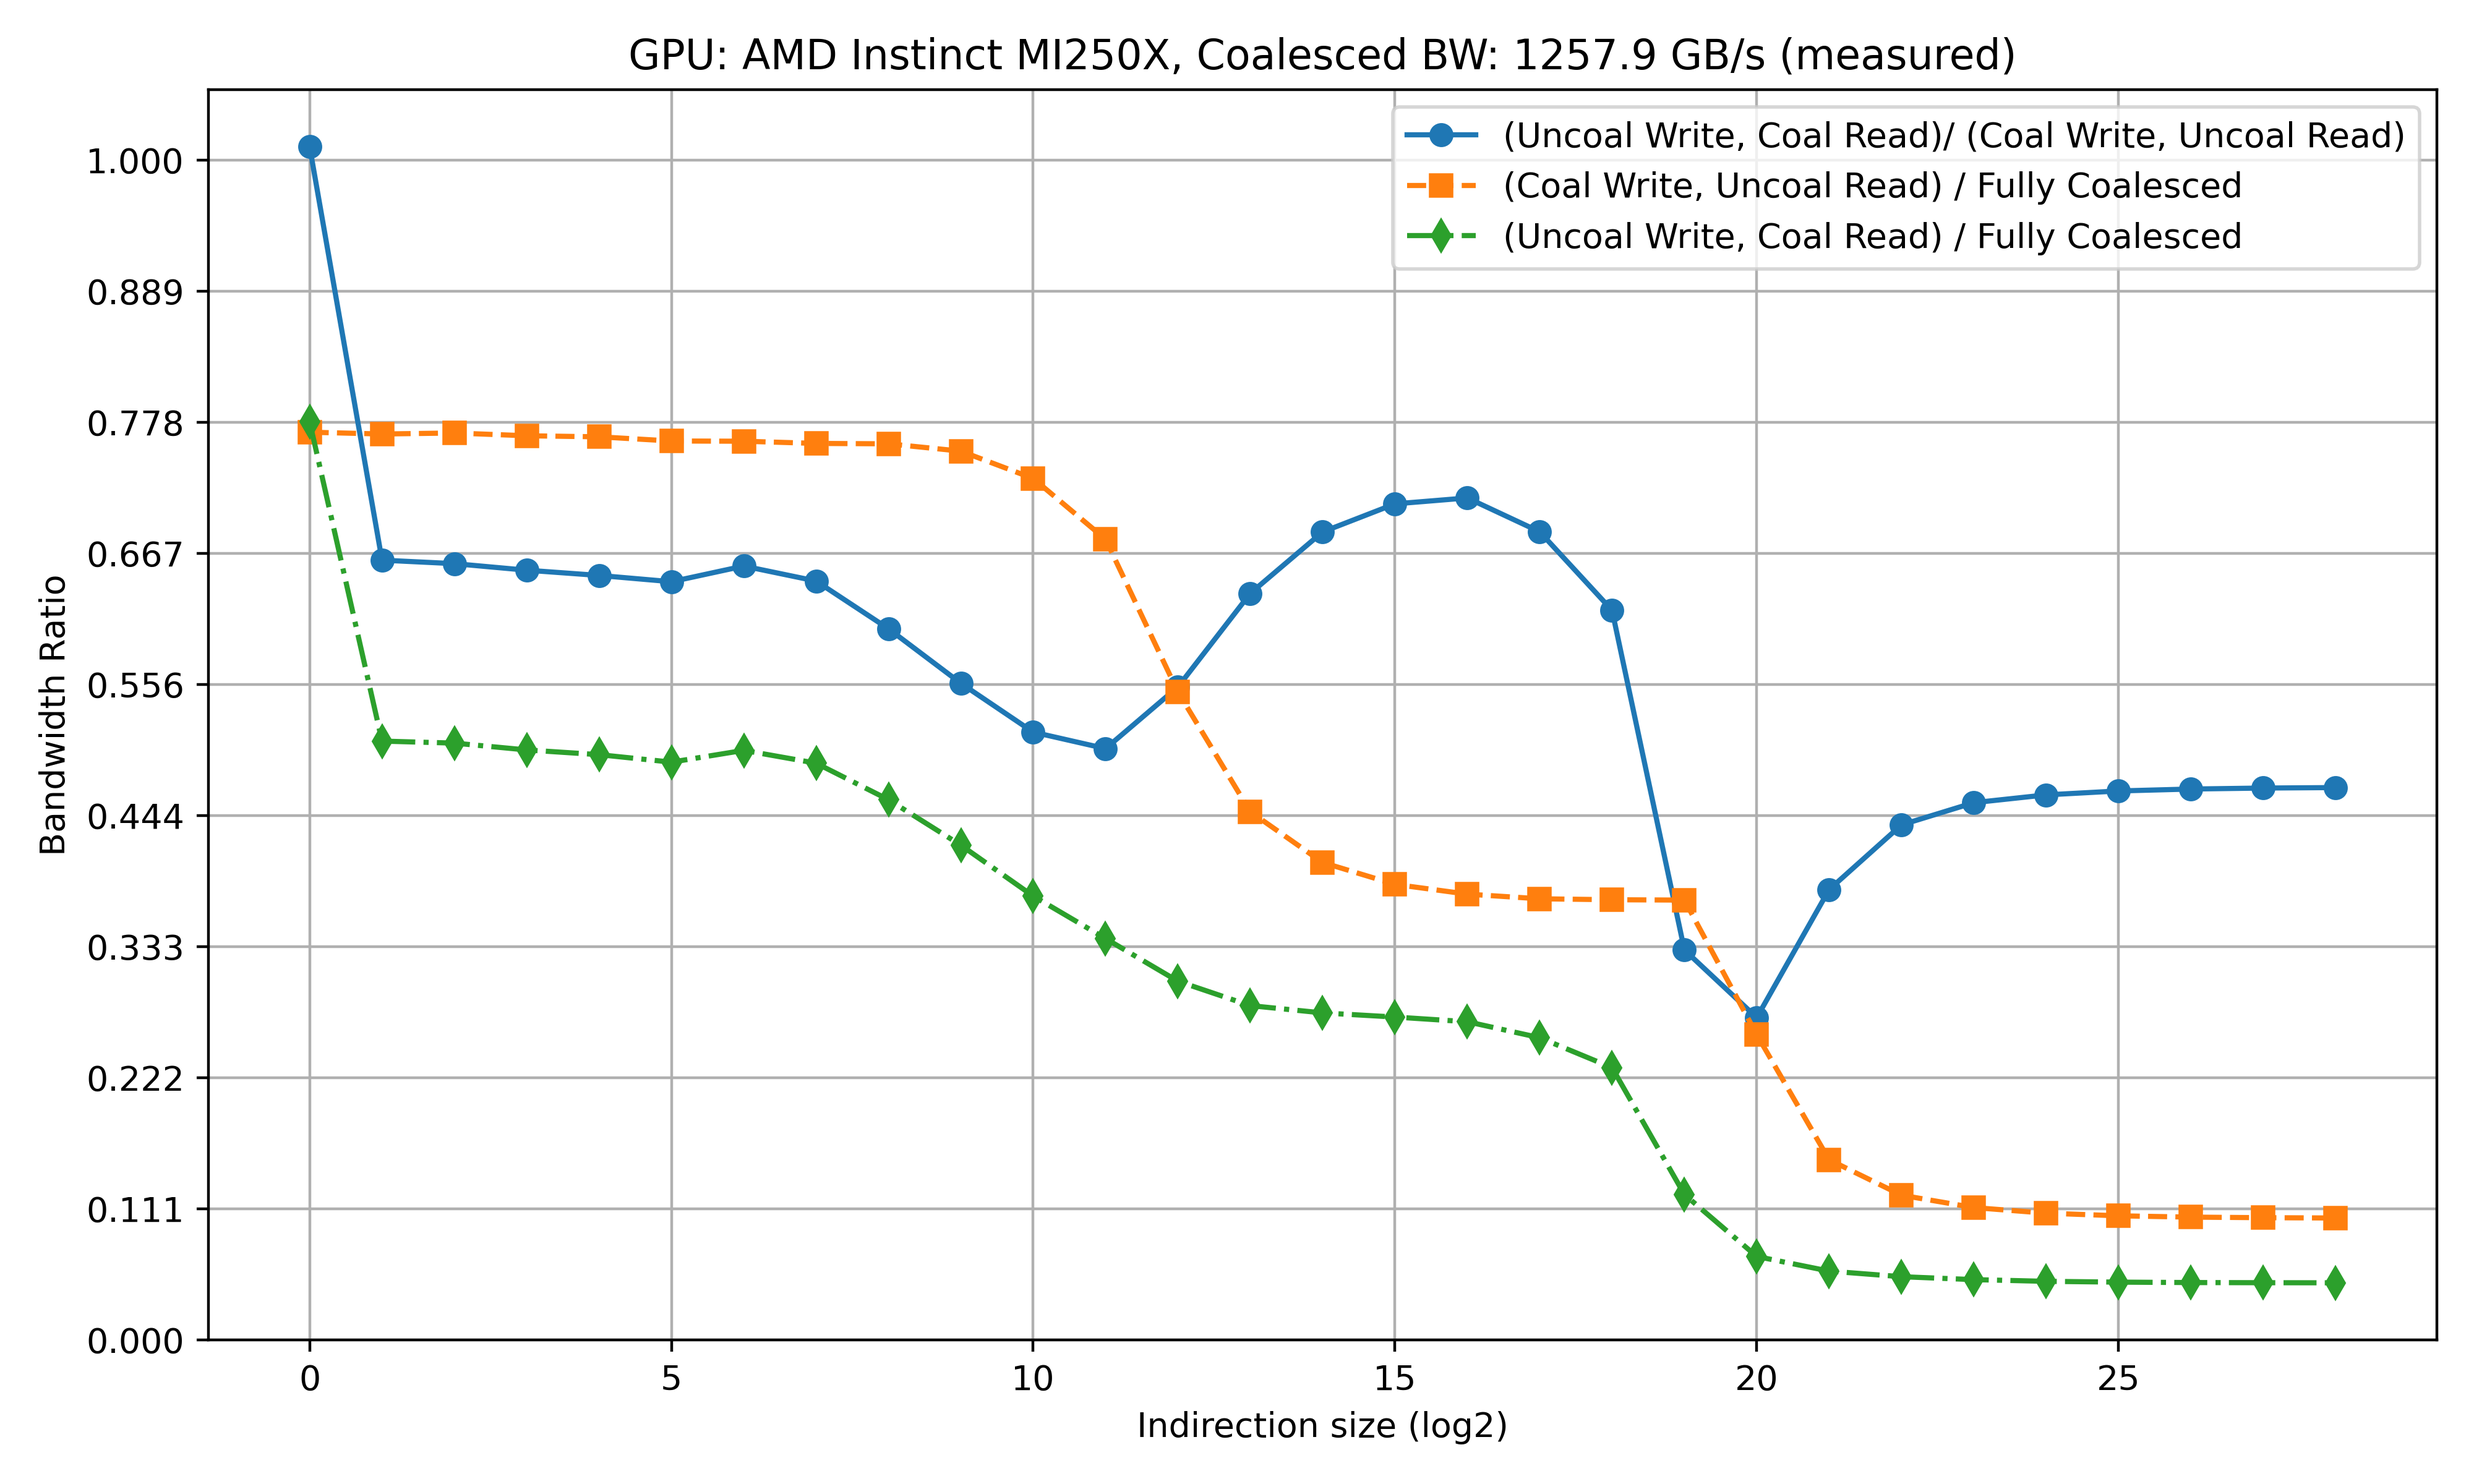
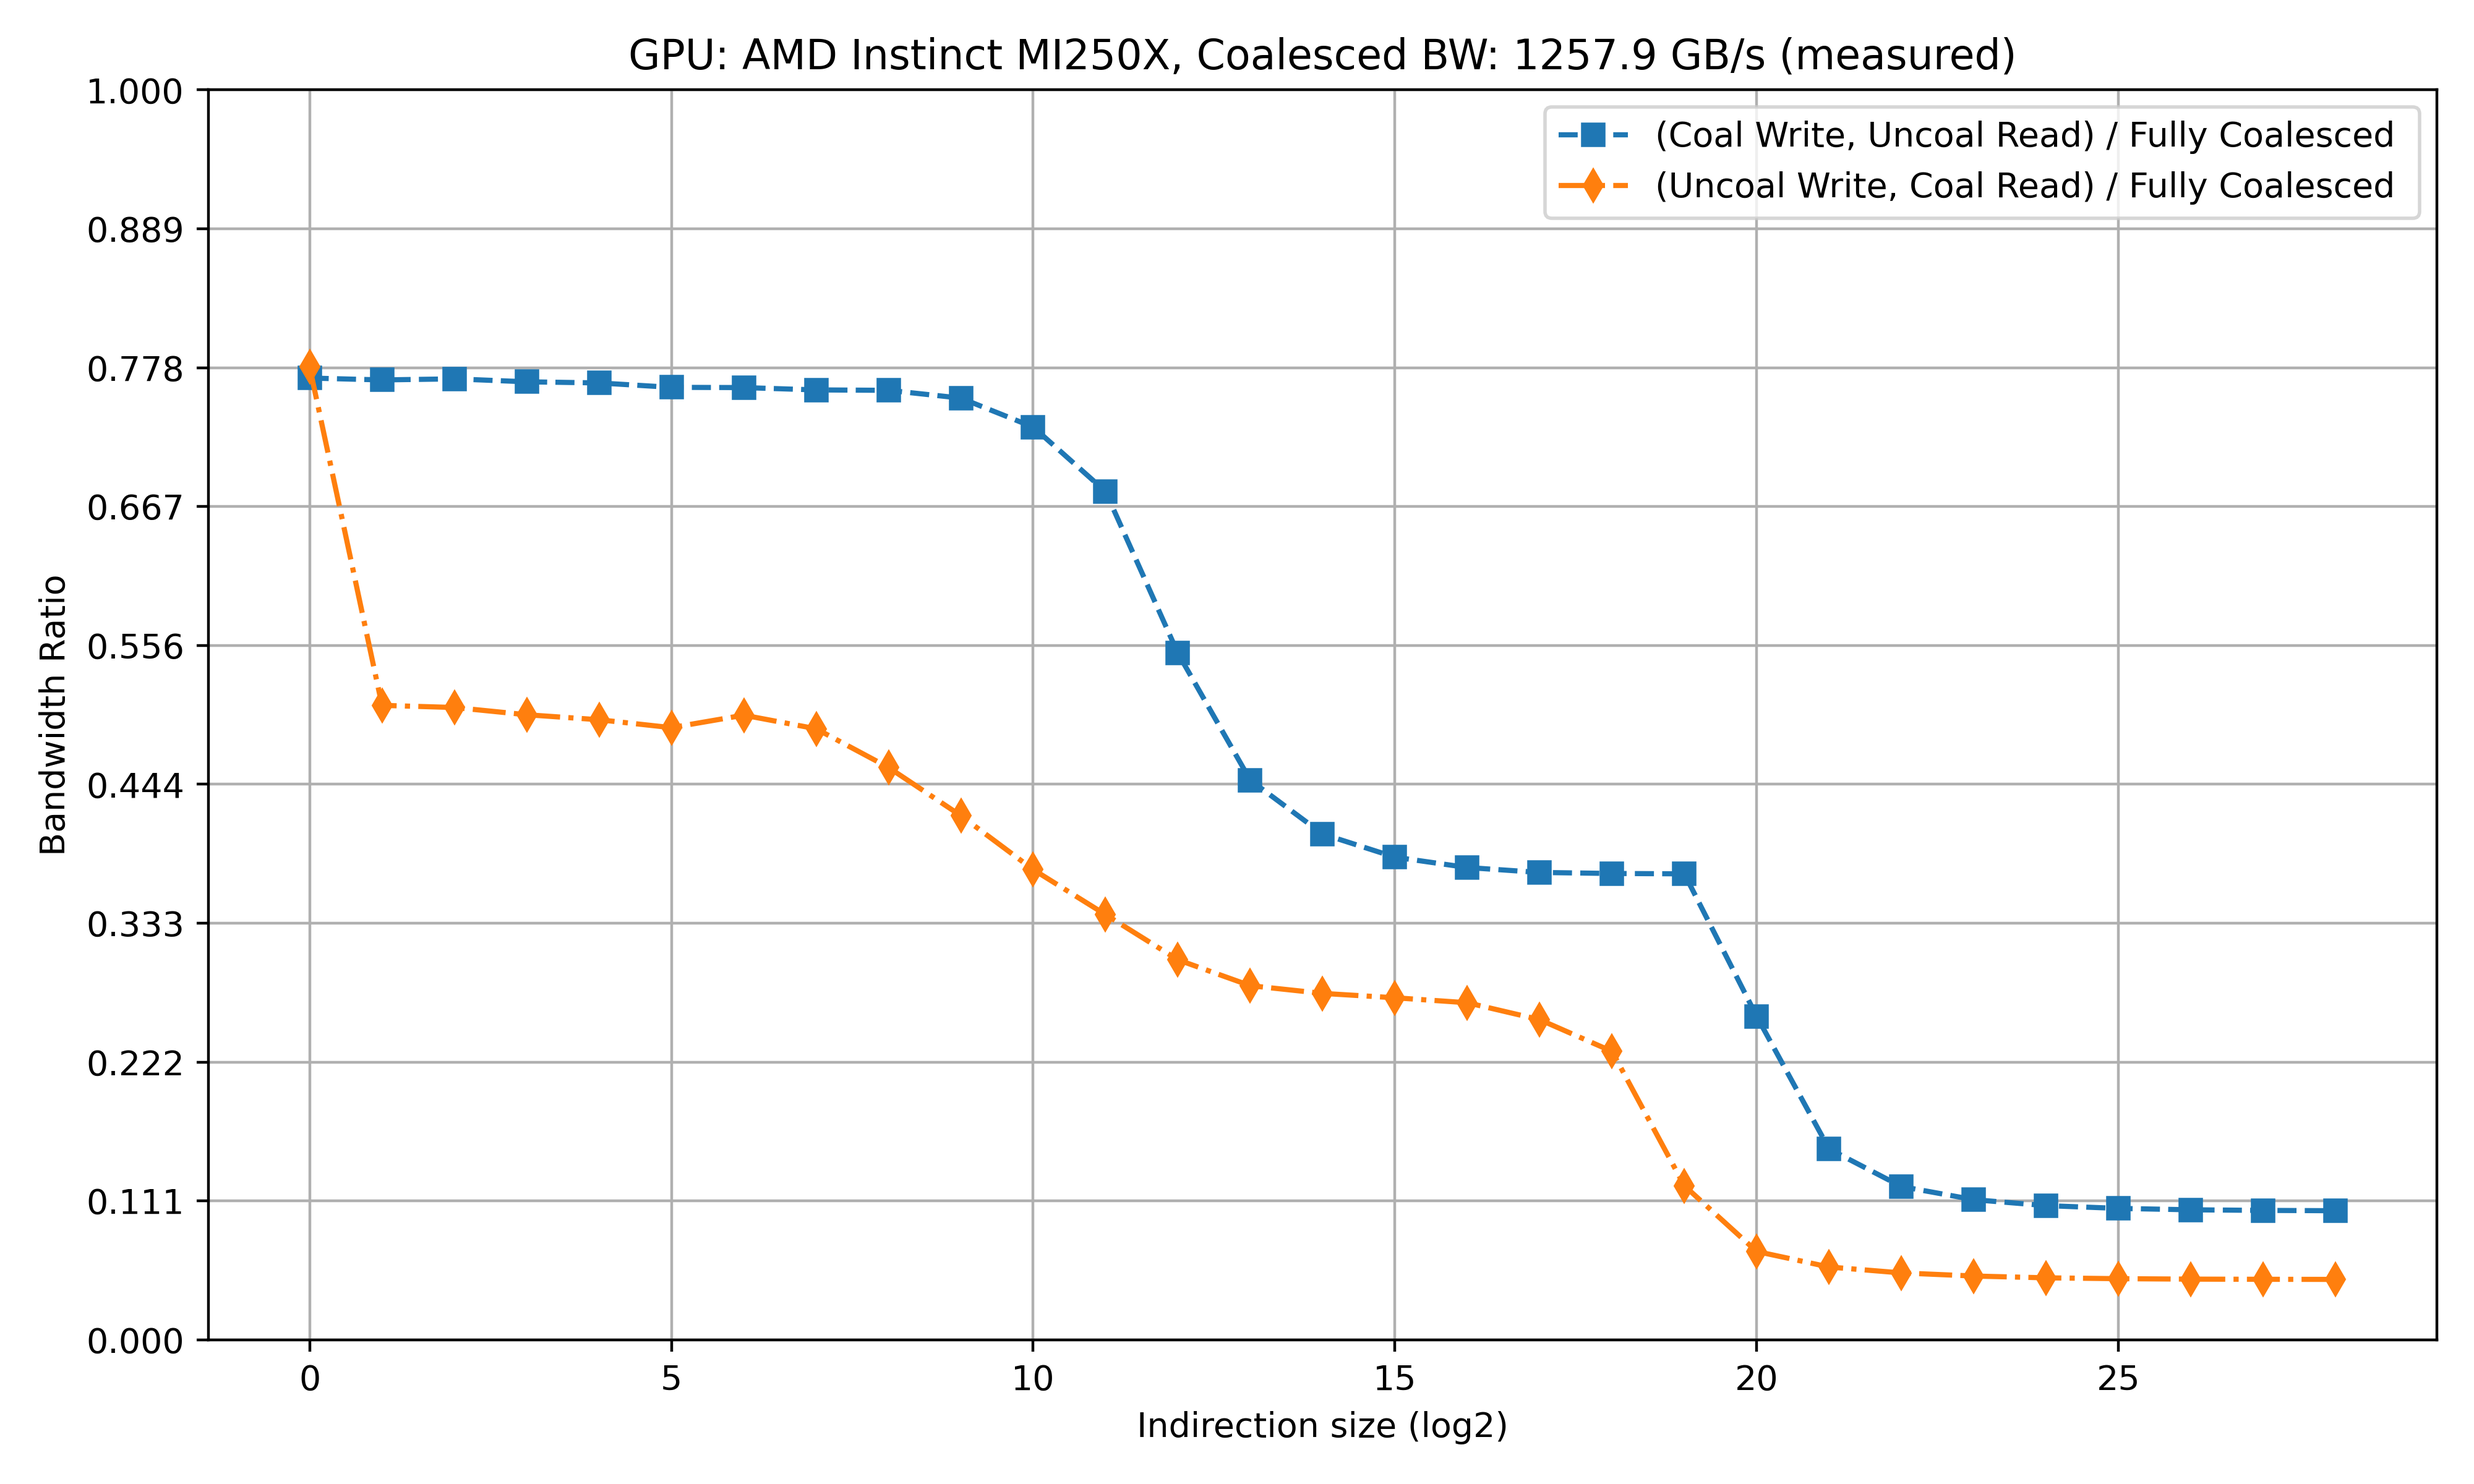
change plotter

diff --git a/plot.py b/plot.py
@@ -50,7 +50,7 @@ coalesced_bw_label = f", Coalesced BW: {avg_coalesced_bw:.1f} GB/s (measured)"
 
 # === Plotting ===
 plt.figure(figsize=(10, 6))
-plt.plot(indirection, read_write_ratio, 'o-', label='(Uncoal Write, Coal Read)/ (Coal Write, Uncoal Read)')
+#plt.plot(indirection, read_write_ratio, 'o-', label='(Uncoal Write, Coal Read)/ (Coal Write, Uncoal Read)')
 plt.plot(indirection, read_coalesced_ratio, 's--', label='(Coal Write, Uncoal Read) / Fully Coalesced ')
 plt.plot(indirection, write_coalesced_ratio, 'd-.', label='(Uncoal Write, Coal Read) / Fully Coalesced')
 
